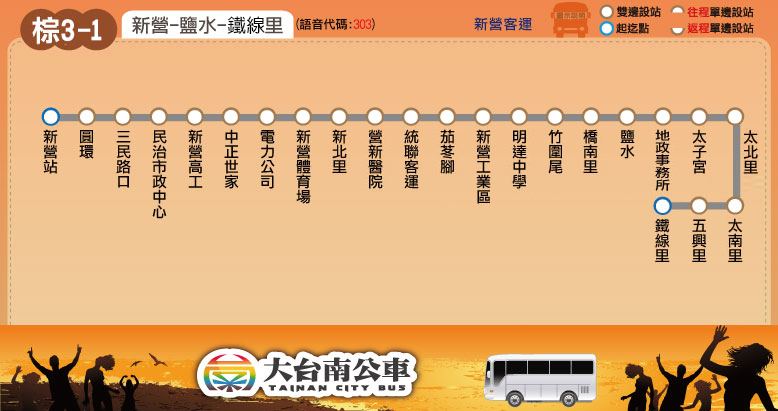
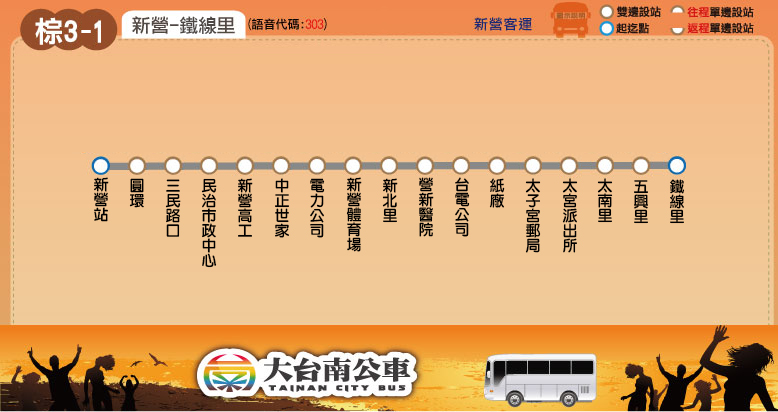
Update the route brown 3-1

Changed region(s): [[0.0, 0.0, 1.0, 0.7883], [0.0, 0.7883, 1.0, 1.0]]

diff --git a/route/fare_and_time/brown_3_1.js b/route/fare_and_time/brown_3_1.js
@@ -1,26 +1,26 @@
-brown_3_1_interval_name = ["新營","茄苳腳","鹽水","太子宮","五興里","鐵線里"];
+brown_3_1_interval_name = ["新營","台電公司","紙廠","太宮<br />派出所","五興里","鐵線里"];
 brown_3_1_interval_stop = [
-["新營站","圓環","三民路口","民治市政中心","新營高工","中正世家","電力公司","新營體育場","新北里","營新醫院","統聯客運"], // 新營
-["茄苳腳","新營工業區","明達中學"], // 茄苳腳
-["竹圍尾","橋南里","鹽水","地政事務所"], // 鹽水
-["太子宮","太北里","太南里"], // 太子宮
+["新營站","圓環","三民路口","民治市政中心","新營高工","中正世家","電力公司","新營體育場","新北里","營新醫院"], // 新營
+["台電公司"], // 台電公司
+["紙廠"], // 紙廠
+["太子宮郵局","太宮派出所","太南里"], // 太宮派出所
 ["五興里"], // 五興里
 ["鐵線里"] // 鐵線里
 ];
-brown_3_1_stop_time_consume = [0,2,4,6,8,9,9,10,11,11,12,15,16,17,19,20,22,23,28,30,31,32,34,36,37,37,38,39,40];
+brown_3_1_stop_time_consume = [0,2,4,6,8,9,9,10,11,11,14,16,18,18,20,23,25];
 brown_3_1_fare = [
 [26],
 [26,26],
-[34,26,26],
-[48,26,26,26],
-[56,31,26,26,26],
-[60,34,26,26,26,26]
+[26,26,26],
+[30,26,26,26],
+[37,26,26,26,26],
+[41,26,26,26,26,26]
 ];
 // format = [time at the start stop] or
 // [time, other] or
 // [time, start_stop, end_stop, other]
-brown_3_1_main_stop_name = ["新營","統聯<br />客運","鹽水","太子宮","五興里","鐵線里"];
-brown_3_1_main_stop_time_consume = [0, 12, 22, 29, 33, 35];
-brown_3_1_important_stop = [0, 2, 5]; // 新營, 鹽水, 鐵線里
-brown_3_1_time_go = [["08:15"],["11:15"],["15:00"]];
-brown_3_1_time_return = [["08:55"],["11:55"],["15:40"]];
+brown_3_1_main_stop_name = ["新營","台電公司","太宮<br />派出所","五興里","鐵線里"];
+brown_3_1_main_stop_time_consume = [0, 14, 18, 23, 25];
+brown_3_1_important_stop = [0, 4]; // 新營, 鐵線里
+brown_3_1_time_go = [["07:45"],["11:00"],["15:15"]];
+brown_3_1_time_return = [["08:15"],["11:30"],["15:45"]];

diff --git a/brown/brown_3_1.html b/brown/brown_3_1.html
@@ -72,7 +72,7 @@ select.get_fare option.option5
 			<table border="0">
 				<tr>
 					<td>起訖點</td>
-					<td>新營 － 鹽水 － 鐵線里</td>
+					<td>新營 － 鐵線里</td>
 				</tr>
 				<tr>
 					<td>營運公司</td>
